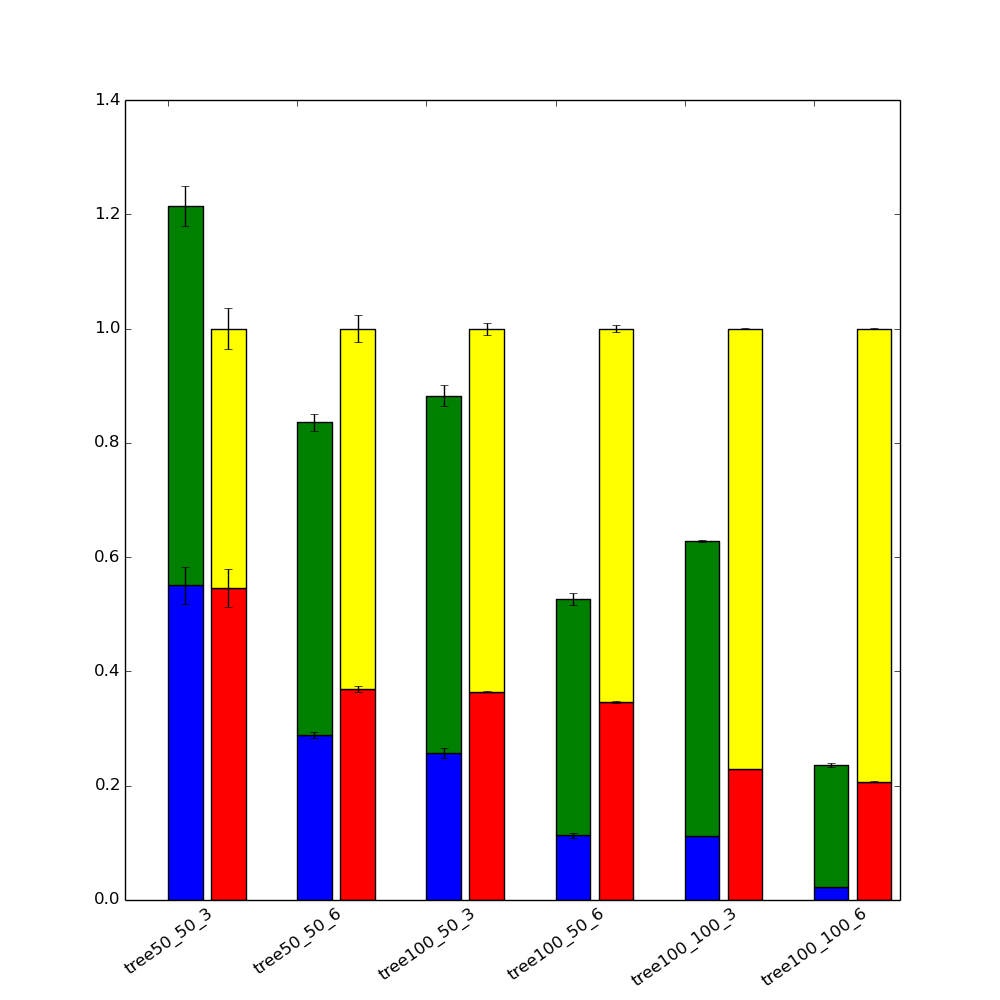
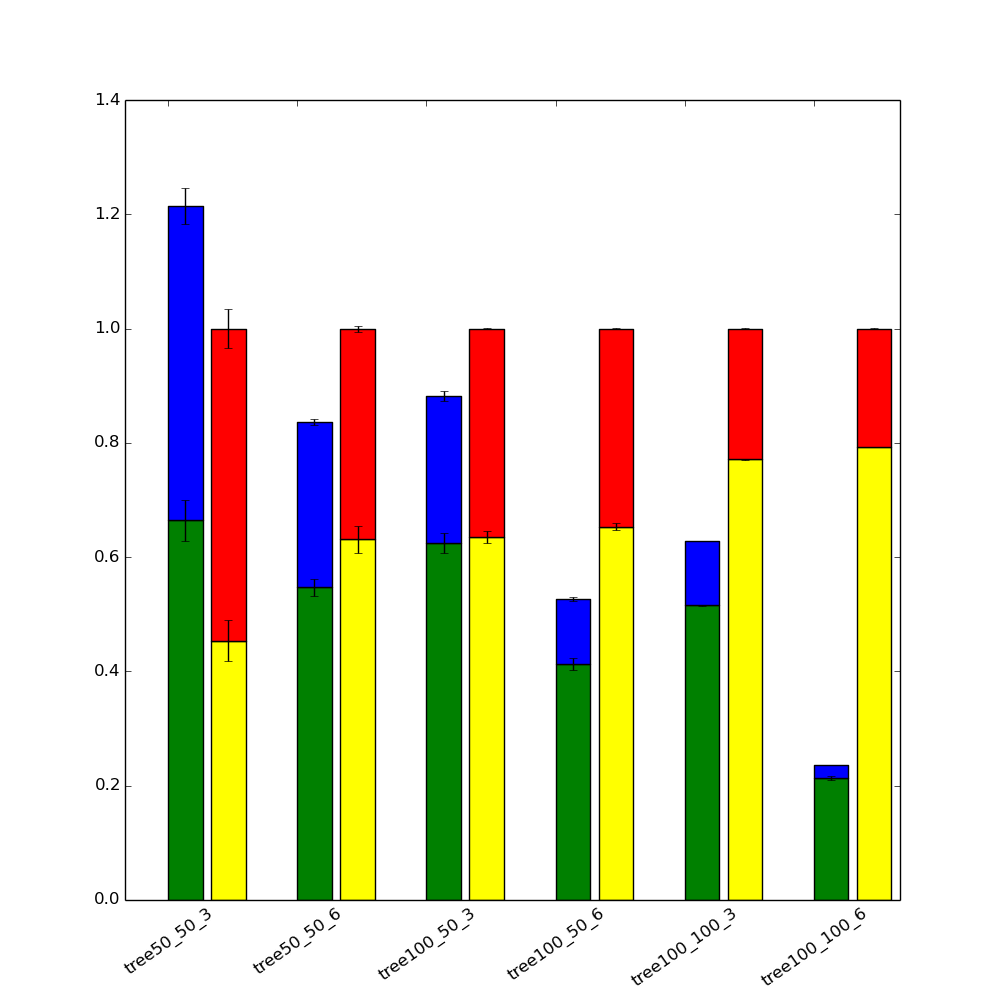
swapped enc and run times on stacked bar graph

diff --git a/vector_synth/bfv_backend/generateTreeGraphs.py b/vector_synth/bfv_backend/generateTreeGraphs.py
@@ -170,63 +170,63 @@ int24 = st.t.interval(alpha=0.95, df=len(scal_run6)-1, loc=np.mean(scal_run6), s
 figure(figsize=(10, 10), dpi=80)
 norm_tree50_50_3_vec_enc = float(tree50_50_3_vec_enc_avg)/(tree50_50_3_scal_enc_avg + tree50_50_3_scal_run_avg)
 norm_tree50_50_3_vec_run = float(tree50_50_3_vec_run_avg)/(tree50_50_3_scal_enc_avg + tree50_50_3_scal_run_avg)
-plt.bar(1, norm_tree50_50_3_vec_enc, color = 'blue', yerr = (int1[1] - int1[0]) / (2 * (tree50_50_3_scal_enc_avg + tree50_50_3_scal_run_avg)), ecolor = 'black')
-plt.bar(1, norm_tree50_50_3_vec_run, color = 'green', yerr = (int3[1] - int3[0]) / (2 * (tree50_50_3_scal_enc_avg + tree50_50_3_scal_run_avg)), ecolor = 'black', label = 'scalar', bottom = norm_tree50_50_3_vec_enc)
+plt.bar(1, norm_tree50_50_3_vec_run, color = 'green', yerr = (int3[1] - int3[0]) / (2 * (tree50_50_3_scal_enc_avg + tree50_50_3_scal_run_avg)), ecolor = 'black', label = 'scalar')
+plt.bar(1, norm_tree50_50_3_vec_enc, color = 'blue', yerr = (int1[1] - int1[0]) / (2 * (tree50_50_3_scal_enc_avg + tree50_50_3_scal_run_avg)), ecolor = 'black', bottom = norm_tree50_50_3_vec_run)
 
 norm_tree50_50_3_scal_enc = float(tree50_50_3_scal_enc_avg)/(tree50_50_3_scal_enc_avg + tree50_50_3_scal_run_avg)
 norm_tree50_50_3_scal_run = float(tree50_50_3_scal_run_avg)/(tree50_50_3_scal_enc_avg + tree50_50_3_scal_run_avg)
-plt.bar(2, norm_tree50_50_3_scal_enc, color = 'red', yerr = (int2[1] - int2[0]) / (2 * (tree50_50_3_scal_enc_avg + tree50_50_3_scal_run_avg)), ecolor = 'black')
-plt.bar(2, norm_tree50_50_3_scal_run, color = 'yellow', yerr = (int4[1] - int4[0]) / (2 * (tree50_50_3_scal_enc_avg + tree50_50_3_scal_run_avg)), ecolor = 'black', label = 'scalar', bottom = norm_tree50_50_3_scal_enc)
+plt.bar(2, norm_tree50_50_3_scal_run, color = 'yellow', yerr = (int4[1] - int4[0]) / (2 * (tree50_50_3_scal_enc_avg + tree50_50_3_scal_run_avg)), ecolor = 'black', label = 'scalar')
+plt.bar(2, norm_tree50_50_3_scal_enc, color = 'red', yerr = (int2[1] - int2[0]) / (2 * (tree50_50_3_scal_enc_avg + tree50_50_3_scal_run_avg)), ecolor = 'black', bottom = norm_tree50_50_3_scal_run)
 
 norm_tree50_50_6_vec_enc = float(tree50_50_6_vec_enc_avg)/(tree50_50_6_scal_enc_avg + tree50_50_6_scal_run_avg)
 norm_tree50_50_6_vec_run = float(tree50_50_6_vec_run_avg)/(tree50_50_6_scal_enc_avg + tree50_50_6_scal_run_avg)
-plt.bar(4, norm_tree50_50_6_vec_enc, color = 'blue', yerr = (int5[1] - int5[0]) / (2 * (tree50_50_6_scal_enc_avg + tree50_50_6_scal_run_avg)), ecolor = 'black')
-plt.bar(4, norm_tree50_50_6_vec_run, color = 'green', yerr = (int7[1] - int7[0]) / (2 * (tree50_50_6_scal_enc_avg + tree50_50_6_scal_run_avg)), ecolor = 'black', label = 'scalar', bottom = norm_tree50_50_6_vec_enc)
+plt.bar(4, norm_tree50_50_6_vec_run, color = 'green', yerr = (int7[1] - int7[0]) / (2 * (tree50_50_6_scal_enc_avg + tree50_50_6_scal_run_avg)), ecolor = 'black', label = 'scalar')
+plt.bar(4, norm_tree50_50_6_vec_enc, color = 'blue', yerr = (int5[1] - int5[0]) / (2 * (tree50_50_6_scal_enc_avg + tree50_50_6_scal_run_avg)), ecolor = 'black', bottom = norm_tree50_50_6_vec_run)
 
 norm_tree50_50_6_scal_enc = float(tree50_50_6_scal_enc_avg)/(tree50_50_6_scal_enc_avg + tree50_50_6_scal_run_avg)
 norm_tree50_50_6_scal_run = float(tree50_50_6_scal_run_avg)/(tree50_50_6_scal_enc_avg + tree50_50_6_scal_run_avg)
-plt.bar(5, norm_tree50_50_6_scal_enc, color = 'red', yerr = (int6[1] - int6[0]) / (2 * (tree50_50_6_scal_enc_avg + tree50_50_6_scal_run_avg)), ecolor = 'black')
-plt.bar(5, norm_tree50_50_6_scal_run, color = 'yellow', yerr = (int8[1] - int8[0]) / (2 * (tree50_50_6_scal_enc_avg + tree50_50_6_scal_run_avg)), ecolor = 'black', label = 'scalar', bottom = norm_tree50_50_6_scal_enc)
+plt.bar(5, norm_tree50_50_6_scal_run, color = 'yellow', yerr = (int8[1] - int8[0]) / (2 * (tree50_50_6_scal_enc_avg + tree50_50_6_scal_run_avg)), ecolor = 'black', label = 'scalar')
+plt.bar(5, norm_tree50_50_6_scal_enc, color = 'red', yerr = (int6[1] - int6[0]) / (2 * (tree50_50_6_scal_enc_avg + tree50_50_6_scal_run_avg)), ecolor = 'black', bottom = norm_tree50_50_6_scal_run)
 
 norm_tree100_50_3_vec_enc = float(tree100_50_3_vec_enc_avg)/(tree100_50_3_scal_enc_avg + tree100_50_3_scal_run_avg)
 norm_tree100_50_3_vec_run = float(tree100_50_3_vec_run_avg)/(tree100_50_3_scal_enc_avg + tree100_50_3_scal_run_avg)
-plt.bar(7, norm_tree100_50_3_vec_enc, color = 'blue', yerr = (int9[1] - int9[0]) / (2 * (tree100_50_3_scal_enc_avg + tree100_50_3_scal_run_avg)), ecolor = 'black')
-plt.bar(7, norm_tree100_50_3_vec_run, color = 'green', yerr = (int11[1] - int11[0]) / (2 * (tree100_50_3_scal_enc_avg + tree100_50_3_scal_run_avg)), ecolor = 'black', label = 'scalar', bottom = norm_tree100_50_3_vec_enc)
+plt.bar(7, norm_tree100_50_3_vec_run, color = 'green', yerr = (int11[1] - int11[0]) / (2 * (tree100_50_3_scal_enc_avg + tree100_50_3_scal_run_avg)), ecolor = 'black', label = 'scalar')
+plt.bar(7, norm_tree100_50_3_vec_enc, color = 'blue', yerr = (int9[1] - int9[0]) / (2 * (tree100_50_3_scal_enc_avg + tree100_50_3_scal_run_avg)), ecolor = 'black', bottom = norm_tree100_50_3_vec_run)
 
 norm_tree100_50_3_scal_enc = float(tree100_50_3_scal_enc_avg)/(tree100_50_3_scal_enc_avg + tree100_50_3_scal_run_avg)
 norm_tree100_50_3_scal_run = float(tree100_50_3_scal_run_avg)/(tree100_50_3_scal_enc_avg + tree100_50_3_scal_run_avg)
-plt.bar(8, norm_tree100_50_3_scal_enc, color = 'red', yerr = (int10[1] - int10[0]) / (2 * (tree100_50_3_scal_enc_avg + tree100_50_3_scal_run_avg)), ecolor = 'black')
-plt.bar(8, norm_tree100_50_3_scal_run, color = 'yellow', yerr = (int12[1] - int12[0]) / (2 * (tree100_50_3_scal_enc_avg + tree100_50_3_scal_run_avg)), ecolor = 'black', label = 'scalar', bottom = norm_tree100_50_3_scal_enc)
+plt.bar(8, norm_tree100_50_3_scal_run, color = 'yellow', yerr = (int12[1] - int12[0]) / (2 * (tree100_50_3_scal_enc_avg + tree100_50_3_scal_run_avg)), ecolor = 'black', label = 'scalar')
+plt.bar(8, norm_tree100_50_3_scal_enc, color = 'red', yerr = (int10[1] - int10[0]) / (2 * (tree100_50_3_scal_enc_avg + tree100_50_3_scal_run_avg)), ecolor = 'black', bottom = norm_tree100_50_3_scal_run)
 
 norm_tree100_50_6_vec_enc = float(tree100_50_6_vec_enc_avg)/(tree100_50_6_scal_enc_avg + tree100_50_6_scal_run_avg)
 norm_tree100_50_6_vec_run = float(tree100_50_6_vec_run_avg)/(tree100_50_6_scal_enc_avg + tree100_50_6_scal_run_avg)
-plt.bar(10, norm_tree100_50_6_vec_enc, color = 'blue', yerr = (int13[1] - int13[0]) / (2 * (tree100_50_6_scal_enc_avg + tree100_50_6_scal_run_avg)), ecolor = 'black')
-plt.bar(10, norm_tree100_50_6_vec_run, color = 'green', yerr = (int15[1] - int15[0]) / (2 * (tree100_50_6_scal_enc_avg + tree100_50_6_scal_run_avg)), ecolor = 'black', label = 'scalar', bottom = norm_tree100_50_6_vec_enc)
+plt.bar(10, norm_tree100_50_6_vec_run, color = 'green', yerr = (int15[1] - int15[0]) / (2 * (tree100_50_6_scal_enc_avg + tree100_50_6_scal_run_avg)), ecolor = 'black', label = 'scalar')
+plt.bar(10, norm_tree100_50_6_vec_enc, color = 'blue', yerr = (int13[1] - int13[0]) / (2 * (tree100_50_6_scal_enc_avg + tree100_50_6_scal_run_avg)), ecolor = 'black', bottom = norm_tree100_50_6_vec_run)
 
 norm_tree100_50_6_scal_enc = float(tree100_50_6_scal_enc_avg)/(tree100_50_6_scal_enc_avg + tree100_50_6_scal_run_avg)
 norm_tree100_50_6_scal_run = float(tree100_50_6_scal_run_avg)/(tree100_50_6_scal_enc_avg + tree100_50_6_scal_run_avg)
-plt.bar(11, norm_tree100_50_6_scal_enc, color = 'red', yerr = (int14[1] - int14[0]) / (2 * (tree100_50_6_scal_enc_avg + tree100_50_6_scal_run_avg)), ecolor = 'black')
-plt.bar(11, norm_tree100_50_6_scal_run, color = 'yellow', yerr = (int16[1] - int16[0]) / (2 * (tree100_50_6_scal_enc_avg + tree100_50_6_scal_run_avg)), ecolor = 'black', label = 'scalar', bottom = norm_tree100_50_6_scal_enc)
+plt.bar(11, norm_tree100_50_6_scal_run, color = 'yellow', yerr = (int16[1] - int16[0]) / (2 * (tree100_50_6_scal_enc_avg + tree100_50_6_scal_run_avg)), ecolor = 'black', label = 'scalar')
+plt.bar(11, norm_tree100_50_6_scal_enc, color = 'red', yerr = (int14[1] - int14[0]) / (2 * (tree100_50_6_scal_enc_avg + tree100_50_6_scal_run_avg)), ecolor = 'black', bottom = norm_tree100_50_6_scal_run)
 
 norm_tree100_100_3_vec_enc = float(tree100_100_3_vec_enc_avg)/(tree100_100_3_scal_enc_avg + tree100_100_3_scal_run_avg)
 norm_tree100_100_3_vec_run = float(tree100_100_3_vec_run_avg)/(tree100_100_3_scal_enc_avg + tree100_100_3_scal_run_avg)
-plt.bar(13, norm_tree100_100_3_vec_enc, color = 'blue', yerr = (int17[1] - int17[0]) / (2 * (tree100_100_3_scal_enc_avg + tree100_100_3_scal_run_avg)), ecolor = 'black')
-plt.bar(13, norm_tree100_100_3_vec_run, color = 'green', yerr = (int19[1] - int19[0]) / (2 * (tree100_100_3_scal_enc_avg + tree100_100_3_scal_run_avg)), ecolor = 'black', label = 'scalar', bottom = norm_tree100_100_3_vec_enc)
+plt.bar(13, norm_tree100_100_3_vec_run, color = 'green', yerr = (int19[1] - int19[0]) / (2 * (tree100_100_3_scal_enc_avg + tree100_100_3_scal_run_avg)), ecolor = 'black', label = 'scalar')
+plt.bar(13, norm_tree100_100_3_vec_enc, color = 'blue', yerr = (int17[1] - int17[0]) / (2 * (tree100_100_3_scal_enc_avg + tree100_100_3_scal_run_avg)), ecolor = 'black', bottom = norm_tree100_100_3_vec_run)
 
 norm_tree100_100_3_scal_enc = float(tree100_100_3_scal_enc_avg)/(tree100_100_3_scal_enc_avg + tree100_100_3_scal_run_avg)
 norm_tree100_100_3_scal_run = float(tree100_100_3_scal_run_avg)/(tree100_100_3_scal_enc_avg + tree100_100_3_scal_run_avg)
-plt.bar(14, norm_tree100_100_3_scal_enc, color = 'red', yerr = (int18[1] - int18[0]) / (2 * (tree100_100_3_scal_enc_avg + tree100_100_3_scal_run_avg)), ecolor = 'black')
-plt.bar(14, norm_tree100_100_3_scal_run, color = 'yellow', yerr = (int20[1] - int20[0]) / (2 * (tree100_100_3_scal_enc_avg + tree100_100_3_scal_run_avg)), ecolor = 'black', label = 'scalar', bottom = norm_tree100_100_3_scal_enc)
+plt.bar(14, norm_tree100_100_3_scal_run, color = 'yellow', yerr = (int20[1] - int20[0]) / (2 * (tree100_100_3_scal_enc_avg + tree100_100_3_scal_run_avg)), ecolor = 'black', label = 'scalar')
+plt.bar(14, norm_tree100_100_3_scal_enc, color = 'red', yerr = (int18[1] - int18[0]) / (2 * (tree100_100_3_scal_enc_avg + tree100_100_3_scal_run_avg)), ecolor = 'black', bottom = norm_tree100_100_3_scal_run)
 
 norm_tree100_100_6_vec_enc = float(tree100_100_6_vec_enc_avg)/(tree100_100_6_scal_enc_avg + tree100_100_6_scal_run_avg)
 norm_tree100_100_6_vec_run = float(tree100_100_6_vec_run_avg)/(tree100_100_6_scal_enc_avg + tree100_100_6_scal_run_avg)
-plt.bar(16, norm_tree100_100_6_vec_enc, color = 'blue', yerr = (int21[1] - int21[0]) / (2 * (tree100_100_6_scal_enc_avg + tree100_100_6_scal_run_avg)), ecolor = 'black')
-plt.bar(16, norm_tree100_100_6_vec_run, color = 'green', yerr = (int23[1] - int23[0]) / (2 * (tree100_100_6_scal_enc_avg + tree100_100_6_scal_run_avg)), ecolor = 'black', label = 'scalar', bottom = norm_tree100_100_6_vec_enc)
+plt.bar(16, norm_tree100_100_6_vec_run, color = 'green', yerr = (int23[1] - int23[0]) / (2 * (tree100_100_6_scal_enc_avg + tree100_100_6_scal_run_avg)), ecolor = 'black', label = 'scalar')
+plt.bar(16, norm_tree100_100_6_vec_enc, color = 'blue', yerr = (int21[1] - int21[0]) / (2 * (tree100_100_6_scal_enc_avg + tree100_100_6_scal_run_avg)), ecolor = 'black', bottom = norm_tree100_100_6_vec_run)
 
 norm_tree100_100_6_scal_enc = float(tree100_100_6_scal_enc_avg)/(tree100_100_6_scal_enc_avg + tree100_100_6_scal_run_avg)
 norm_tree100_100_6_scal_run = float(tree100_100_6_scal_run_avg)/(tree100_100_6_scal_enc_avg + tree100_100_6_scal_run_avg)
-plt.bar(17, norm_tree100_100_6_scal_enc, color = 'red', yerr = (int22[1] - int22[0]) / (2 * (tree100_100_6_scal_enc_avg + tree100_100_6_scal_run_avg)), ecolor = 'black')
-plt.bar(17, norm_tree100_100_6_scal_run, color = 'yellow', yerr = (int24[1] - int24[0]) / (2 * (tree100_100_6_scal_enc_avg + tree100_100_6_scal_run_avg)), ecolor = 'black', label = 'scalar', bottom = norm_tree100_100_6_scal_enc)
+plt.bar(17, norm_tree100_100_6_scal_run, color = 'yellow', yerr = (int24[1] - int24[0]) / (2 * (tree100_100_6_scal_enc_avg + tree100_100_6_scal_run_avg)), ecolor = 'black', label = 'scalar')
+plt.bar(17, norm_tree100_100_6_scal_enc, color = 'red', yerr = (int22[1] - int22[0]) / (2 * (tree100_100_6_scal_enc_avg + tree100_100_6_scal_run_avg)), ecolor = 'black', bottom = norm_tree100_100_6_scal_run)
 
 plt.xticks([1,4,7,10,13,16],["tree50_50_3", "tree50_50_6", "tree100_50_3", "tree100_50_6", "tree100_100_3", "tree100_100_6"], rotation = 35, fontsize = 12)
 
